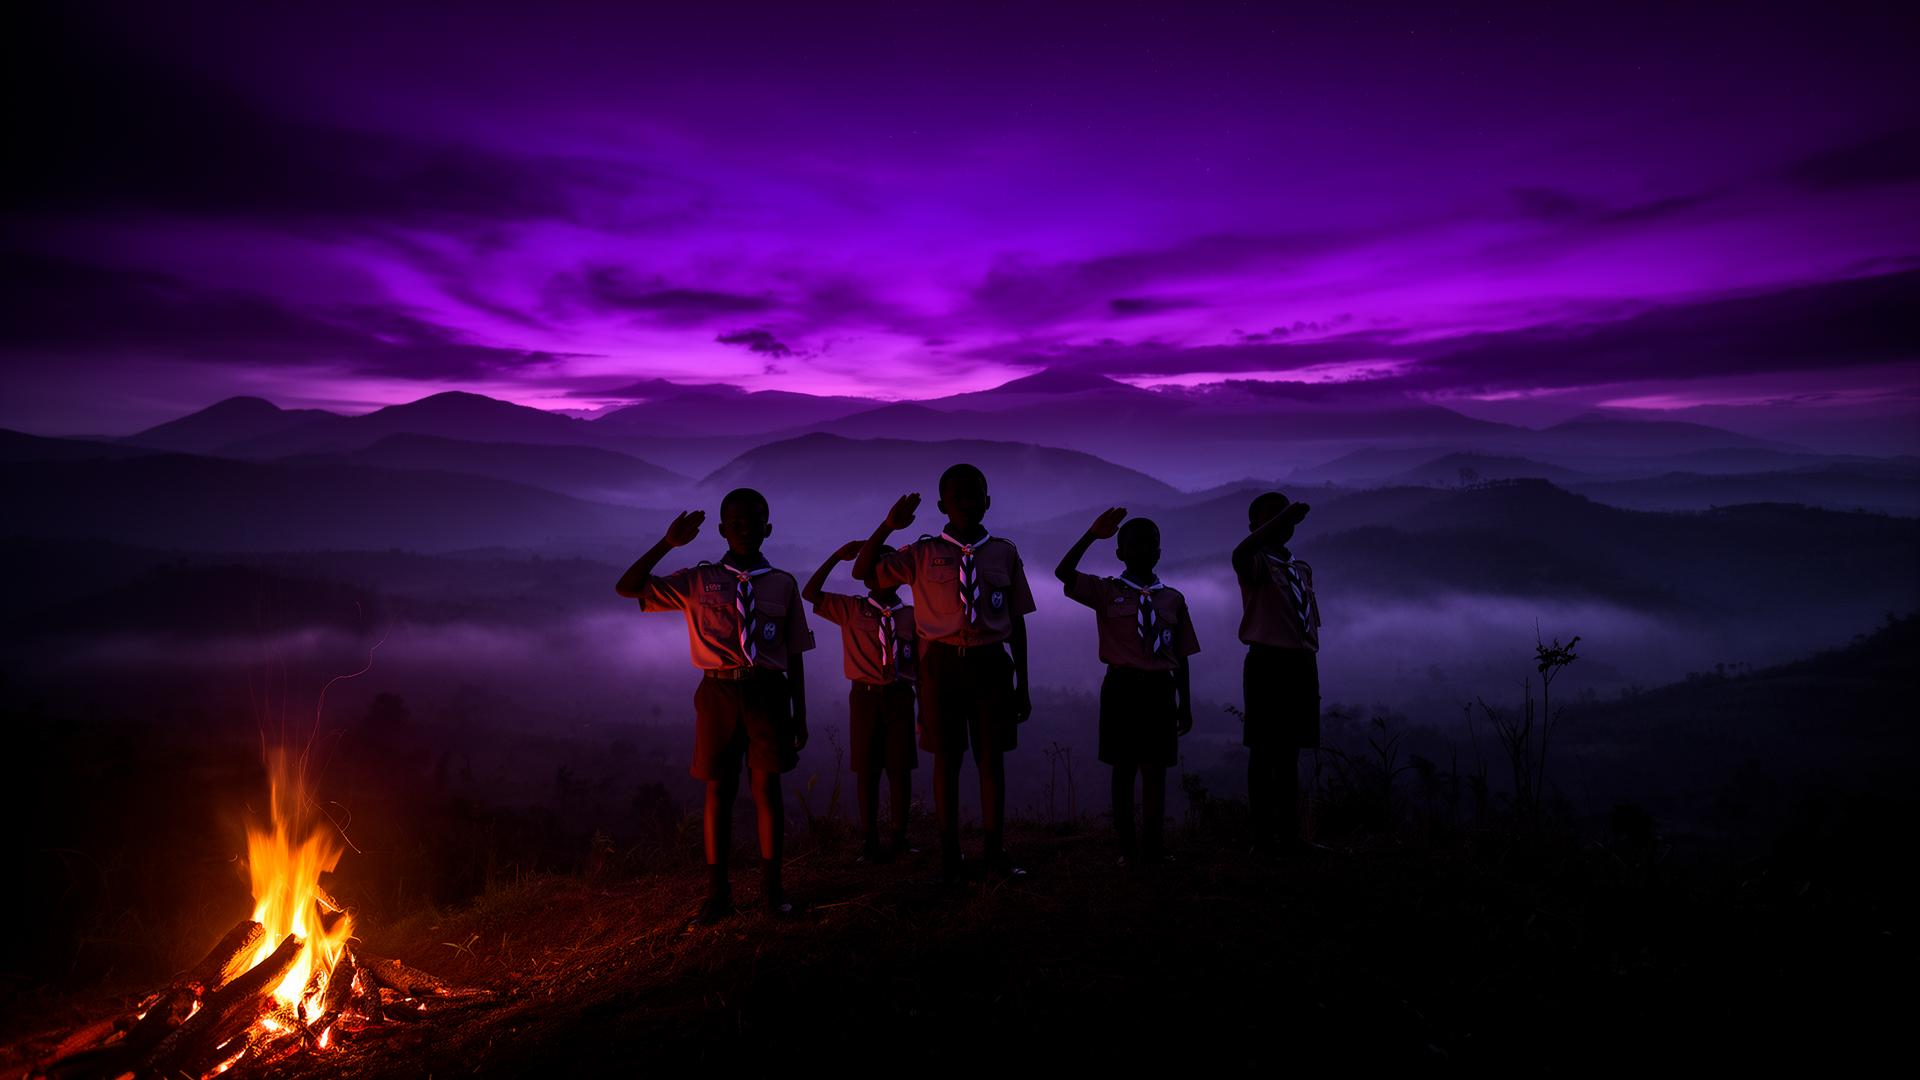
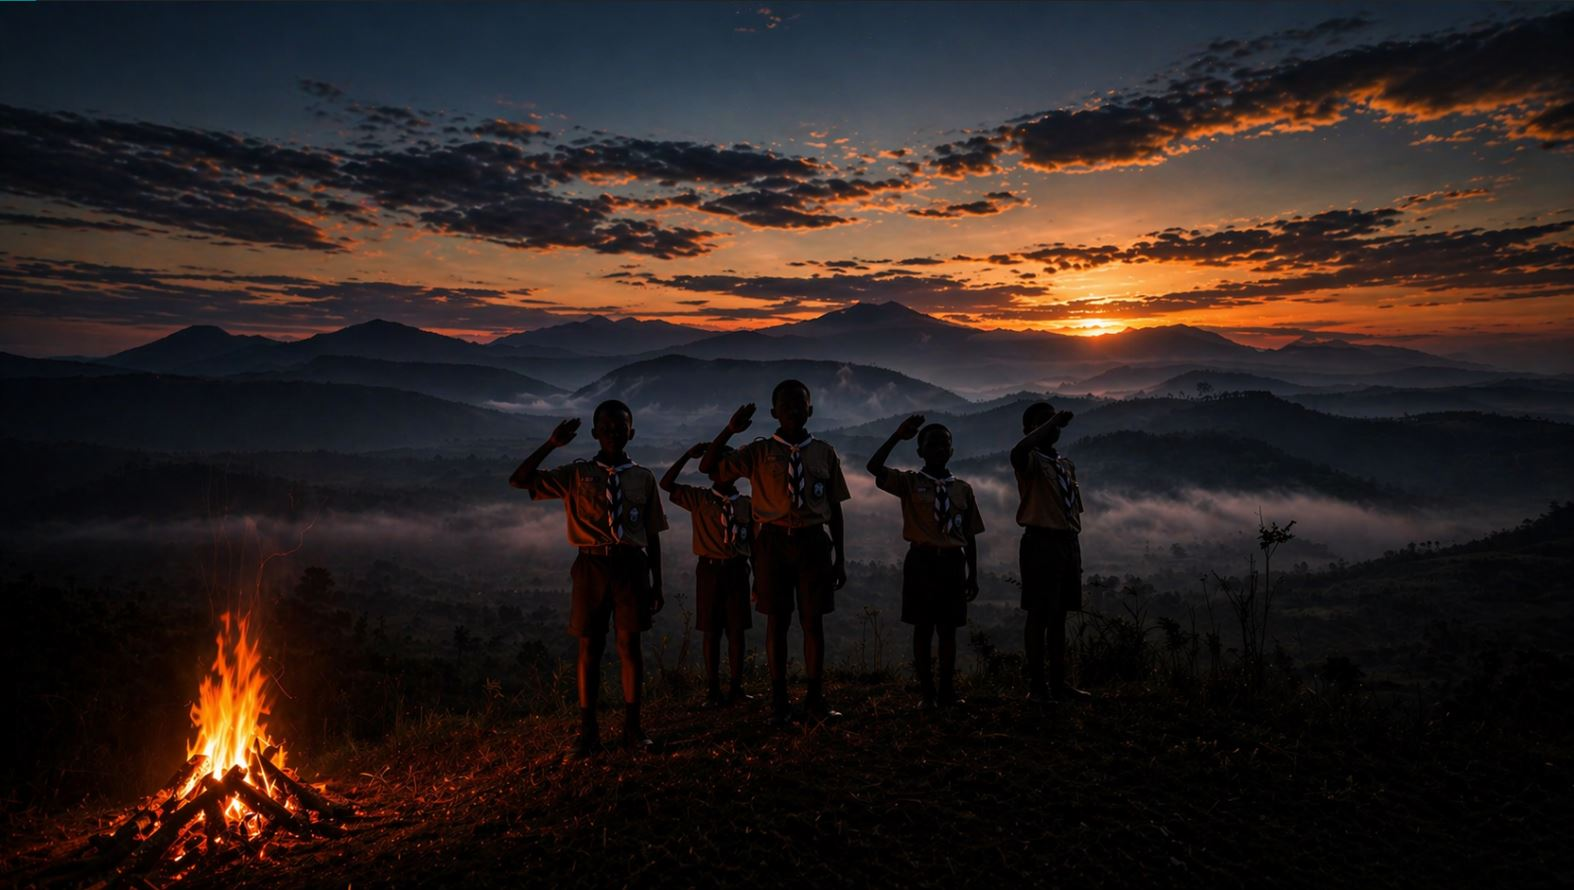
Add files via upload

diff --git a/cssstylevf.css b/cssstylevf.css
@@ -393,7 +393,7 @@ nav ul li a:hover {
 .hero {
     height: 102vh;
     background-color: #000;
-    background-image: url('images/couverturevf.png');
+    background-image: url('images/couverture.jpeg');
     background-position: center;
     background-size: cover;
     background-repeat: no-repeat;
